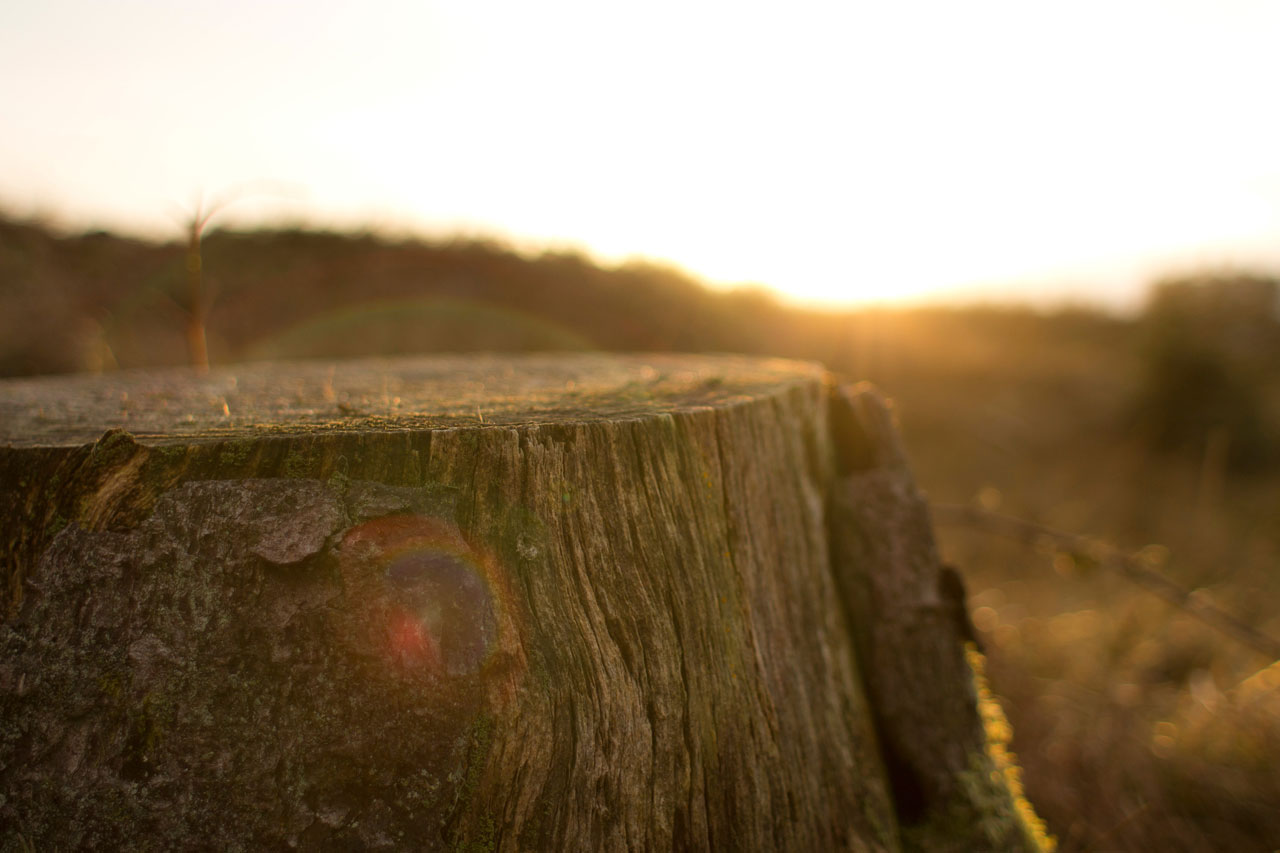
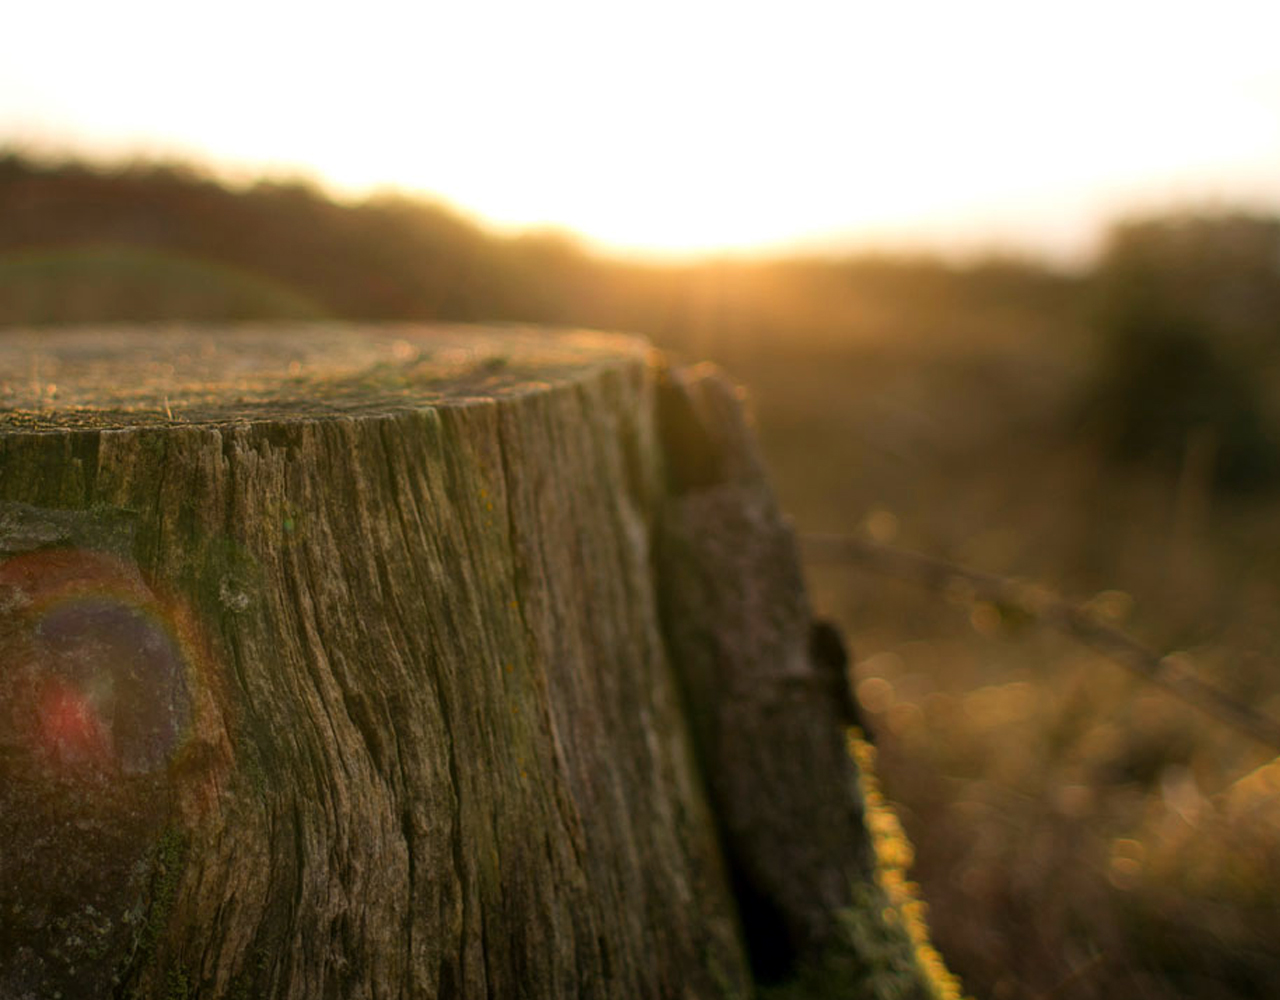
fixed quotes, line length

diff --git a/css/google-type.css b/css/google-type.css
@@ -312,20 +312,20 @@ h1, h2, p { margin: 0; padding: 0; }
 /* Styles for The Owl and the Birds */
 /* -------------------------------- */
 
-.section-the-owl-and-the-birds { background: #F1B15A; padding: 30px; }
+.section-the-owl-and-the-birds { background-color: #F1B15A; padding: 30px 30px 70px 30px; }
 
 .section-the-owl-and-the-birds .avatar img { margin: 0 0 6px 0; }
 .section-the-owl-and-the-birds .caption { color: #573E1E; margin: 0 0 50px 0; }
 .section-the-owl-and-the-birds .caption a { color: #573E1E; }
 .section-the-owl-and-the-birds .caption a:hover, .section-the-owl-and-the-birds .caption a:active { color: #F1B15A; background: #573E1E; }
 
-.section-the-owl-and-the-birds .container { text-align: center; margin: 0 auto; width: 80%; }
-.section-the-owl-and-the-birds .container h2 { color: #261400; font: 48px 'Montserrat', sans-serif; font-weight: 700; margin-bottom: 80px; }
-.section-the-owl-and-the-birds .container p { color: #FAF3EE; text-align: justify; font: 13px/24px 'Domine', Georgia, serif; margin-bottom: 20px; }
+.section-the-owl-and-the-birds .container { text-align: center; margin: 0 auto; width: 80%; padding-bottom: 30px; }
+.section-the-owl-and-the-birds .container h2 { color: #210; font: 700 48px 'Montserrat', sans-serif; text-align: left; margin: 60px 0; letter-spacing: -.02em;}
+.section-the-owl-and-the-birds .container p { color: #F9F7ED; font: 15px/26px 'Domine', Georgia, serif; margin-bottom: 18px; padding-left: 10px; text-align: left; max-width: 480px; }
 .section-the-owl-and-the-birds .container p .cap { font-size: 16px; text-transform: uppercase; }
 
 @media all and (min-width: 768px) {
-  .section-the-owl-and-the-birds { background: url(../images/sunset.jpg) no-repeat right center; -webkit-background-size: cover; -moz-background-size: cover; -o-background-size: cover; background-size: cover; }
+  .section-the-owl-and-the-birds { background: url(../images/sunset.jpg) no-repeat; -webkit-background-size: cover; -moz-background-size: cover; -o-background-size: cover; background-size: cover; }
   .section-the-owl-and-the-birds .container { width: 560px; }
   .section-the-owl-and-the-birds .caption { color: #D5934B; }
   .section-the-owl-and-the-birds .caption a { color: #D5934B; }
@@ -337,10 +337,10 @@ h1, h2, p { margin: 0; padding: 0; }
 /* -------------------------------- */
 #HomerGaines{}
 .section-jupiter-and-the-tortoise {padding:40px; min-height:450px; background: url(../images/turtle.jpg) no-repeat right center;  -webkit-background-size: cover; -moz-background-size: cover; -o-background-size: cover; background-size: cover; }
-.section-jupiter-and-the-tortoise h2{font-family: 'Philosopher', sans-serif; font-weight: normal; color:#fff; font-size:36px; margin:0px 0px 7px 0px;}
-.section-jupiter-and-the-tortoise p{font-family: 'Muli', sans-serif; color:#fff; line-height: 1.5em;}
-.section-jupiter-and-the-tortoise .container{max-width:960px; width:100%;}
-.section-jupiter-and-the-tortoise .caption {color: #fff; font-family: 'Muli', sans-serif; margin: 0px 0px 60px 0px;}
+.section-jupiter-and-the-tortoise h2{font-family: 'Philosopher', sans-serif; font-weight: normal; color:#fff; font-size:36px; margin: 0 0 7px 0;}
+.section-jupiter-and-the-tortoise p{ font-family: 'Muli', sans-serif; color:#fff; line-height: 1.5em;}
+.section-jupiter-and-the-tortoise .container{ max-width:960px; width:100%;}
+.section-jupiter-and-the-tortoise .caption {color: #fff; margin: 0 0 60px 0;}
 
 /* Mobile */
 @media only screen and (max-width: 40em) {

diff --git a/index.html b/index.html
@@ -324,7 +324,7 @@
               <span>And The</span>
               Bramble
             </h2>
-            <p class="moral">Better poverty without a care than wealth with its many obligations.</p>
+            <p class="moral">Better poverty without a care than wealth with its many obligations.</p>
             <p class="fable">A Fir-tree was boasting to a Bramble, and said, somewhat contemptuously, &ldquo;You poor creature, you are of no use whatever. Now, look at me: I am useful for all sorts of things, particularly when men build houses; they can&rsquo;t do without me then.&rdquo; But the Bramble replied, &ldquo;Ah, that&rsquo;s all very well: but you wait till they come with axes and saws to cut you down, and then you&rsquo;ll wish you were a Bramble and not a Fir.&ldquo;
             </p>
           </div>
@@ -380,7 +380,7 @@
                 </div>
 
                 <h2>Jupiter And The Tortoise</h2>
-                <p>Jupiter was about to marry a wife, and determined to celebrate the event by inviting all the animals to a banquet. They all came except the Tortoise, who did not put in an appearance, much to Jupiter's surprise. So when he next saw the Tortoise he asked him why he had not been at the banquet. "I don't care for going out," said the Tortoise; "there's no place like home." Jupiter was so much annoyed by this reply that he decreed that from that time forth the Tortoise should carry his house upon his back, and never be able to get away from home even if he wished to.</p>
+                <p>Jupiter was about to marry a wife, and determined to celebrate the event by inviting all the animals to a banquet. They all came except the Tortoise, who did not put in an appearance, much to Jupiter&rsquo;s surprise. So when he next saw the Tortoise he asked him why he had not been at the banquet. &ldquo;I don&rsquo;t care for going out,&rdquo; said the Tortoise; &ldquo;there&rsquo;s no place like home.&rdquo; Jupiter was so much annoyed by this reply that he decreed that from that time forth the Tortoise should carry his house upon his back, and never be able to get away from home even if he wished to.</p>
 
             </div>
 
